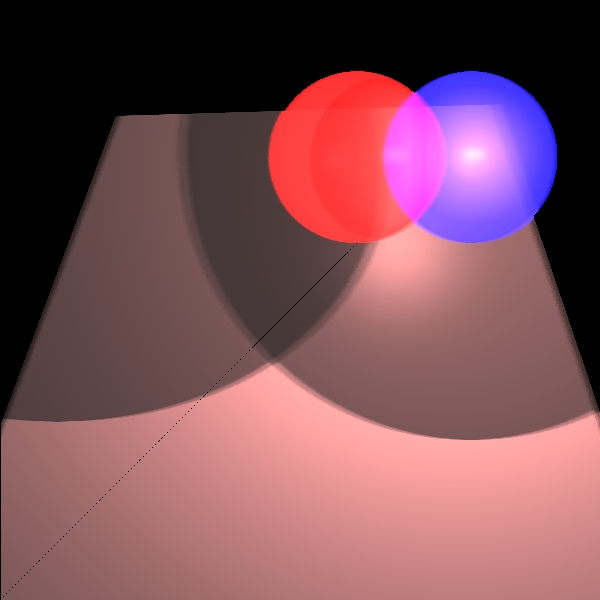
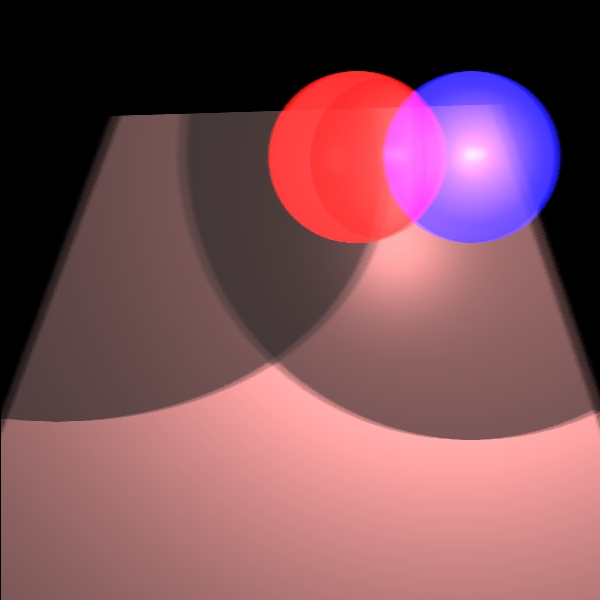
chnging the focus beam function

diff --git a/IME5780-E1-5840-6639/src/unittests/Depth_of_field.java b/IME5780-E1-5840-6639/src/unittests/Depth_of_field.java
@@ -30,11 +30,11 @@ public class Depth_of_field {
         Scene scene = new Scene("Depth of field");
         scene.setCamera(new Camera(new Point3D(0, 230, -80), new Vector(0, -1, 1), new Vector(0, -1, -1),3));
         scene.setViewPlaneDistance(50);
-        scene.setFocalPlaneDistance(450);
+        scene.setFocalPlaneDistance(50);
         scene.setBackground(Color.BLACK);
         scene.setAmbientLight(new AmbientLight(new Color(java.awt.Color.WHITE), 0.15));
 
-        Color triangleColor = new Color(0,112,112);
+        Color triangleColor = new Color(122,112,112);
         Triangle[] borders = new Triangle[8];
         Material triangleMaterial = new Material(0.5, 0.5, 60,0,0.8);
 
@@ -56,9 +56,9 @@ public class Depth_of_field {
         addBalls(upRightCorner,downRightCorner,upLeftCorner,downLeftCorner,radiusOfBalls,scene);
 
         scene.addGeometries( //
-                new Triangle(new Color(0,112,0), new Material(0.5, 0.5, 60), //
+                new Triangle(new Color(0,70,0), new Material(0.5, 0.5, 60), //
                         upRightCorner, downRightCorner, downLeftCorner), //
-                new Triangle(new Color(0,112,0), new Material(0.5, 0.5, 60), //
+                new Triangle(new Color(0,70,0), new Material(0.5, 0.5, 60), //
                         upRightCorner, upLeftCorner, downLeftCorner));
 
         scene.addLights(new PointLight(new Color(java.awt.Color.WHITE),new Point3D(-0,0,-880) ,1,4E-5, 2E-7));
@@ -66,7 +66,7 @@ public class Depth_of_field {
         ImageWriter imageWriter = new ImageWriter("snooker table", 200, 200, 600, 600);
         Render render = new Render(imageWriter, scene).setMultithreading(3).setDebugPrint();
 
-        render.renderImage(true,100);
+        render.renderImage(60);
         render.writeToImage();
     }
 public void addBalls(Point3D upRight, Point3D downRight, Point3D upLeft, Point3D downLeft, double radiusOfBalls, Scene scene){
@@ -74,19 +74,19 @@ public void addBalls(Point3D upRight, Point3D downRight, Point3D upLeft, Point3D
         Sphere[] balls = new Sphere[11];
 
         for (int i = 0; i < 4; i++){
-            balls[i] = new Sphere(new Color(rand.nextInt(255),rand.nextInt(255),rand.nextInt(255)),new Material(0.5, 0.5, 60,0,0.6),radiusOfBalls,//
+            balls[i] = new Sphere(new Color(java.awt.Color.BLUE),new Material(0.5, 0.5, 60,0,0.6),radiusOfBalls,//
                     new Point3D(upRight.get_x()/2 - (i*radiusOfBalls*2+radiusOfBalls),upRight.get_y()/2,-radiusOfBalls));
         }
         for (int i = 4 , j =0; i < 7; i++, j++){
-            balls[i] = new Sphere(new Color(rand.nextInt(255),rand.nextInt(255),rand.nextInt(255)),new Material(0.5, 0.5, 60,0,0.6),radiusOfBalls,//
+            balls[i] = new Sphere(new Color(java.awt.Color.GREEN),new Material(0.5, 0.5, 60,0,0.6),radiusOfBalls,//
                     new Point3D(upRight.get_x()/2 - radiusOfBalls - (j*radiusOfBalls*2+radiusOfBalls),upRight.get_y()/2+radiusOfBalls*2,-radiusOfBalls));
         }
         for (int i = 7, j = 0; i < 9; i++, j++){
-            balls[i] = new Sphere(new Color(rand.nextInt(255),rand.nextInt(255),rand.nextInt(255)),new Material(0.5, 0.5, 60,0,0.6),radiusOfBalls,//
+            balls[i] = new Sphere(new Color(java.awt.Color.RED),new Material(0.5, 0.5, 60,0,0.6),radiusOfBalls,//
                     new Point3D(upRight.get_x()/2 - radiusOfBalls*2 - (j*radiusOfBalls*2+radiusOfBalls),upRight.get_y()/2+radiusOfBalls*4,-radiusOfBalls));
         }
         for (int i = 9, j = 0; i < 10; i++, j++){
-            balls[i] = new Sphere(new Color(rand.nextInt(255),rand.nextInt(255),rand.nextInt(255)),new Material(0.5, 0.5, 600,0,0.6),radiusOfBalls,//
+            balls[i] = new Sphere(new Color(java.awt.Color.MAGENTA),new Material(0.5, 0.5, 600,0,0.6),radiusOfBalls,//
                     new Point3D(upRight.get_x()/2 - radiusOfBalls*3 - (j*radiusOfBalls*2+radiusOfBalls),upRight.get_y()/2+radiusOfBalls*6,-radiusOfBalls));
         }
         balls[10] = new Sphere(new Color(java.awt.Color.WHITE),new Material(0.5, 0.5, 60,0,0.6),radiusOfBalls,//

diff --git a/IME5780-E1-5840-6639/src/renderer/Render.java b/IME5780-E1-5840-6639/src/renderer/Render.java
@@ -146,7 +146,7 @@ public class Render {
                     focusBeam.add(camera.constructRayThroughPixel(nX, nY, pixel.col, pixel.row, //
                             dist, width, height));
                     focusBeam.addAll(focusRays(camera,focusBeam.get(0),numOfBeam));
-                    Color color=calcColor(camera,focusBeam,_scene.getBackground(),numOfBeam);
+                    Color color=calcColor(focusBeam,_scene.getBackground());
                     List<GeoPoint> closestPoints = findClosestIntersection(focusBeam);
                     if (closestPoints != null) {
                         _imageWriter.writePixel(pixel.col, pixel.row, color.getColor());
@@ -250,7 +250,7 @@ public class Render {
                 _scene.getAmbientLight().getIntensity());
     }
 
-    private Color calcColor(Camera camera, List<Ray> rays,Color background, int numOfBeam){
+    private Color calcColor(List<Ray> rays,Color background){
         Color color = new Color(0,0,0);
         for(var ray:rays){
             GeoPoint geoPoint=findClosestIntersection(ray);
